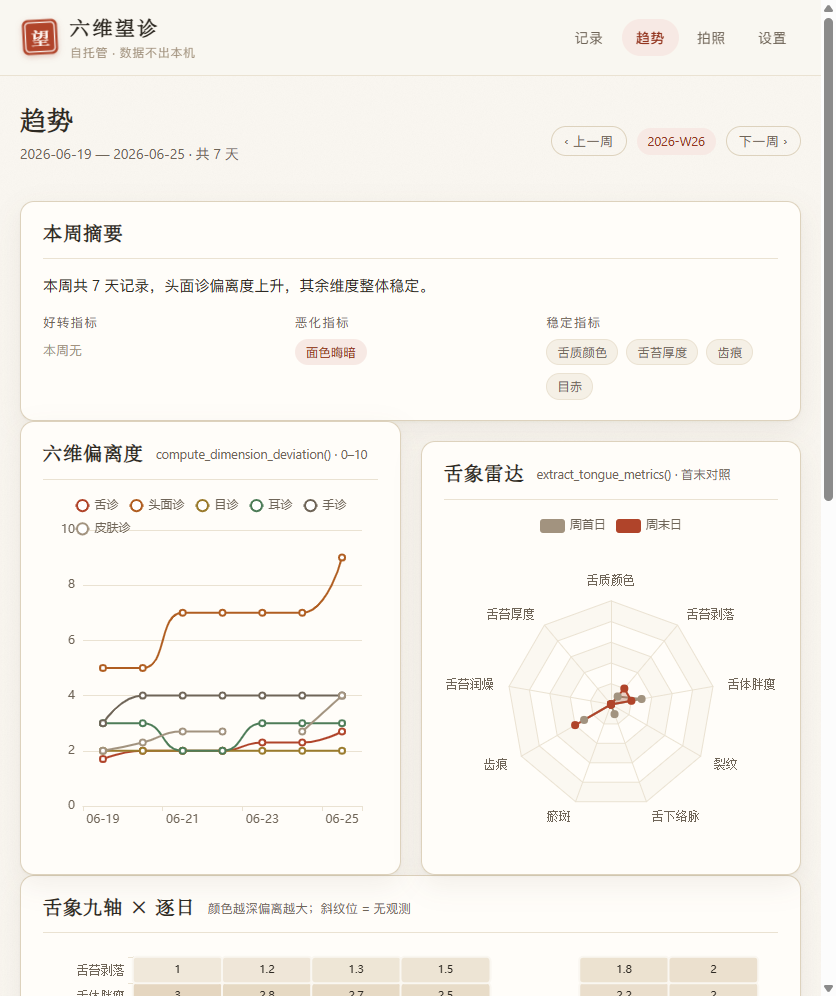
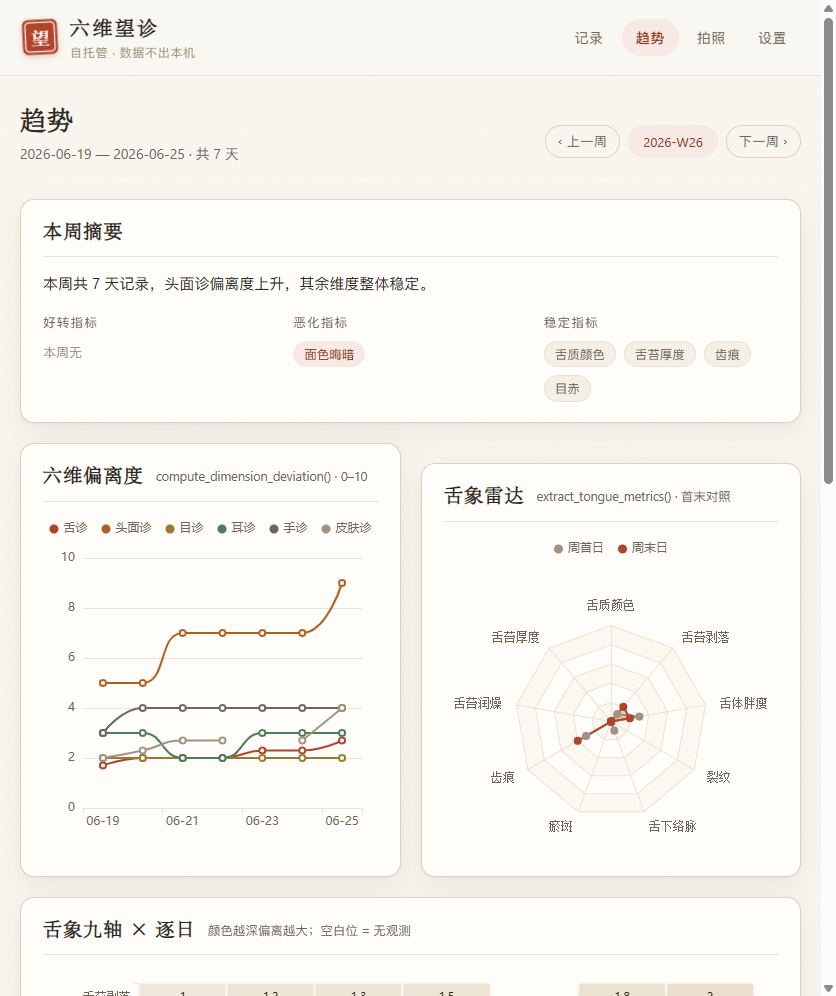
fix(web): 趋势页版式对齐——图例单行防溢出、双图卡等高、统一区块间距

diff --git a/web/design/pages/trends.html b/web/design/pages/trends.html
@@ -7,12 +7,24 @@
 <link rel="stylesheet" href="../assets/tokens.css">
 <link rel="stylesheet" href="../assets/base.css">
 <style>
-  .chart { width: 100%; height: 340px; }
-  .chart.tall { height: 300px; }
+  /* 页面节奏：所有区块统一 20px 间距 */
+  .stack { display: grid; gap: var(--gap); }
+
+  .chart { width: 100%; height: 320px; }
+  .chart.tall { height: 330px; }
+
+  /* 图表卡头：标题 + 数据源说明，等高对齐 */
+  .chart-head { min-height: 30px; }
+
   .trend-row { padding: 8px 10px; border-radius: 8px; display: grid; grid-template-columns: 132px 1fr; gap: 12px; }
   .trend-row:nth-child(odd) { background: rgba(245,240,230,.55); }
   .trend-row .k { color: var(--ink-2); font-size: 13.5px; }
   .cmp-chips { display: flex; flex-wrap: wrap; gap: 8px; }
+  .cmp-col .cmp-label { font-size: 12.5px; letter-spacing: .1em; color: var(--ink-2); margin-bottom: 8px; }
+
+  /* 周导航：三个控件视觉等高 */
+  .week-nav { display: flex; align-items: stretch; gap: 8px; }
+  .week-nav .tag { display: inline-flex; align-items: center; padding: 5px 14px; font-size: 13px; }
 </style>
 </head>
 <body>
@@ -39,7 +51,7 @@
   </div>
 </header>
 
-<main class="page">
+<main class="page stack">
 
   <div class="row">
     <div>
@@ -47,28 +59,28 @@
       <p class="page-sub num" id="week-range"></p>
     </div>
     <span class="spacer"></span>
-    <button class="btn btn-ghost btn-sm">‹ 上一周</button>
-    <span class="tag cinnabar num" id="week-id"></span>
-    <button class="btn btn-ghost btn-sm">下一周 ›</button>
+    <div class="week-nav">
+      <button class="btn btn-ghost btn-sm">‹ 上一周</button>
+      <span class="tag cinnabar num" id="week-id"></span>
+      <button class="btn btn-ghost btn-sm">下一周 ›</button>
+    </div>
   </div>
-
-  <div style="height: 22px"></div>
 
   <!-- 周摘要 -->
   <div class="card">
     <div class="card-head"><h2>本周摘要</h2></div>
-    <p style="margin: 0 0 14px;" id="summary"></p>
-    <div class="grid cols-3">
-      <div>
-        <div class="group-label muted" style="font-size:12.5px; letter-spacing:.1em; margin-bottom:6px;">好转指标</div>
+    <p style="margin: 0 0 16px;" id="summary"></p>
+    <div class="grid cols-3" style="gap: 16px;">
+      <div class="cmp-col">
+        <div class="cmp-label">好转指标</div>
         <div class="cmp-chips" id="cmp-better"></div>
       </div>
-      <div>
-        <div class="muted" style="font-size:12.5px; letter-spacing:.1em; margin-bottom:6px;">恶化指标</div>
+      <div class="cmp-col">
+        <div class="cmp-label">恶化指标</div>
         <div class="cmp-chips" id="cmp-worse"></div>
       </div>
-      <div>
-        <div class="muted" style="font-size:12.5px; letter-spacing:.1em; margin-bottom:6px;">稳定指标</div>
+      <div class="cmp-col">
+        <div class="cmp-label">稳定指标</div>
         <div class="cmp-chips" id="cmp-stable"></div>
       </div>
     </div>
@@ -77,18 +89,18 @@
   <!-- 图：六维偏离度 + 舌象雷达 -->
   <div class="grid cols-2">
     <div class="card">
-      <div class="card-head"><h2>六维偏离度</h2><span class="muted" style="font-size:12.5px;">compute_dimension_deviation() · 0–10</span></div>
+      <div class="card-head chart-head"><h2>六维偏离度</h2><span class="muted" style="font-size:12.5px;">compute_dimension_deviation() · 0–10</span></div>
       <div class="chart" id="chart-dims"></div>
     </div>
     <div class="card">
-      <div class="card-head"><h2>舌象雷达</h2><span class="muted" style="font-size:12.5px;">extract_tongue_metrics() · 首末对照</span></div>
+      <div class="card-head chart-head"><h2>舌象雷达</h2><span class="muted" style="font-size:12.5px;">extract_tongue_metrics() · 首末对照</span></div>
       <div class="chart" id="chart-radar"></div>
     </div>
   </div>
 
   <!-- 图：舌象九轴热力 -->
   <div class="card">
-    <div class="card-head"><h2>舌象九轴 × 逐日</h2><span class="muted" style="font-size:12.5px;">颜色越深偏离越大；斜纹位 = 无观测</span></div>
+    <div class="card-head"><h2>舌象九轴 × 逐日</h2><span class="muted" style="font-size:12.5px;">颜色越深偏离越大；空白位 = 无观测</span></div>
     <div class="chart tall" id="chart-heat"></div>
   </div>
 
@@ -128,11 +140,12 @@ fill("cmp-better", cmp["好转指标"], "ok", "本周无");
 fill("cmp-worse", cmp["恶化指标"], "cinnabar", "本周无");
 fill("cmp-stable", cmp["稳定指标"], "", "本周无");
 
-/* 六维偏离度折线 */
+/* 六维偏离度折线：图例单行圆点，与雷达图例同高对齐 */
 echarts.init(document.getElementById("chart-dims")).setOption({
   color: ["#b0442a", "#b05e21", "#9a7b2d", "#4d7c58", "#6f6558", "#a2937f"],
-  grid: { left: 40, right: 16, top: 36, bottom: 28 },
-  legend: { top: 0, textStyle: { color: INK2, fontSize: 12 }, itemWidth: 14 },
+  grid: { left: 40, right: 16, top: 42, bottom: 28 },
+  legend: { top: 2, left: "center", icon: "circle", itemWidth: 9, itemHeight: 9,
+            itemGap: 14, textStyle: { color: INK2, fontSize: 12 } },
   tooltip: { trigger: "axis" },
   xAxis: { type: "category", data: MOCK_WEEK.dates, axisLine: { lineStyle: { color: LINE } }, axisLabel: { color: INK2 } },
   yAxis: { type: "value", max: 10, splitLine: { lineStyle: { color: LINE } }, axisLabel: { color: INK2 } },
@@ -143,13 +156,14 @@ echarts.init(document.getElementById("chart-dims")).setOption({
   })),
 });
 
-/* 舌象雷达：首日 vs 末日 */
+/* 舌象雷达：首日 vs 末日（图例与折线图同款式同高度） */
 echarts.init(document.getElementById("chart-radar")).setOption({
   color: ["#a2937f", "#b0442a"],
-  legend: { top: 0, data: ["周首日", "周末日"], textStyle: { color: INK2, fontSize: 12 } },
+  legend: { top: 2, left: "center", icon: "circle", itemWidth: 9, itemHeight: 9,
+            itemGap: 14, data: ["周首日", "周末日"], textStyle: { color: INK2, fontSize: 12 } },
   radar: {
     indicator: MOCK_WEEK.radarAxes.map(a => ({ name: a, max: 10 })),
-    radius: "62%", center: ["50%", "56%"],
+    radius: "60%", center: ["50%", "58%"],
     axisName: { color: INK2, fontSize: 12, fontFamily: PAPER_FONT },
     splitArea: { areaStyle: { color: ["rgba(245,240,230,.4)", "rgba(255,253,249,.6)"] } },
     splitLine: { lineStyle: { color: LINE } },
@@ -177,12 +191,13 @@ echarts.init(document.getElementById("chart-radar")).setOption({
     }
   }
   echarts.init(document.getElementById("chart-heat")).setOption({
-    grid: { left: 90, right: 20, top: 10, bottom: 56 },
+    grid: { left: 96, right: 24, top: 14, bottom: 64 },
     tooltip: {},
     xAxis: { type: "category", data: MOCK_WEEK.dates, axisLabel: { color: INK2 }, axisLine: { lineStyle: { color: LINE } } },
     yAxis: { type: "category", data: axes, axisLabel: { color: INK2, fontFamily: PAPER_FONT }, axisLine: { lineStyle: { color: LINE } } },
     visualMap: {
-      min: 0, max: 10, orient: "horizontal", left: "center", bottom: 0,
+      min: 0, max: 10, orient: "horizontal", left: "center", bottom: 6,
+      itemWidth: 12, textGap: 8,
       textStyle: { color: INK2, fontSize: 12 },
       inRange: { color: ["#f5f0e6", "#e8dcc8", "#d9bfa0", "#c98d63", "#b0442a"] },
     },
